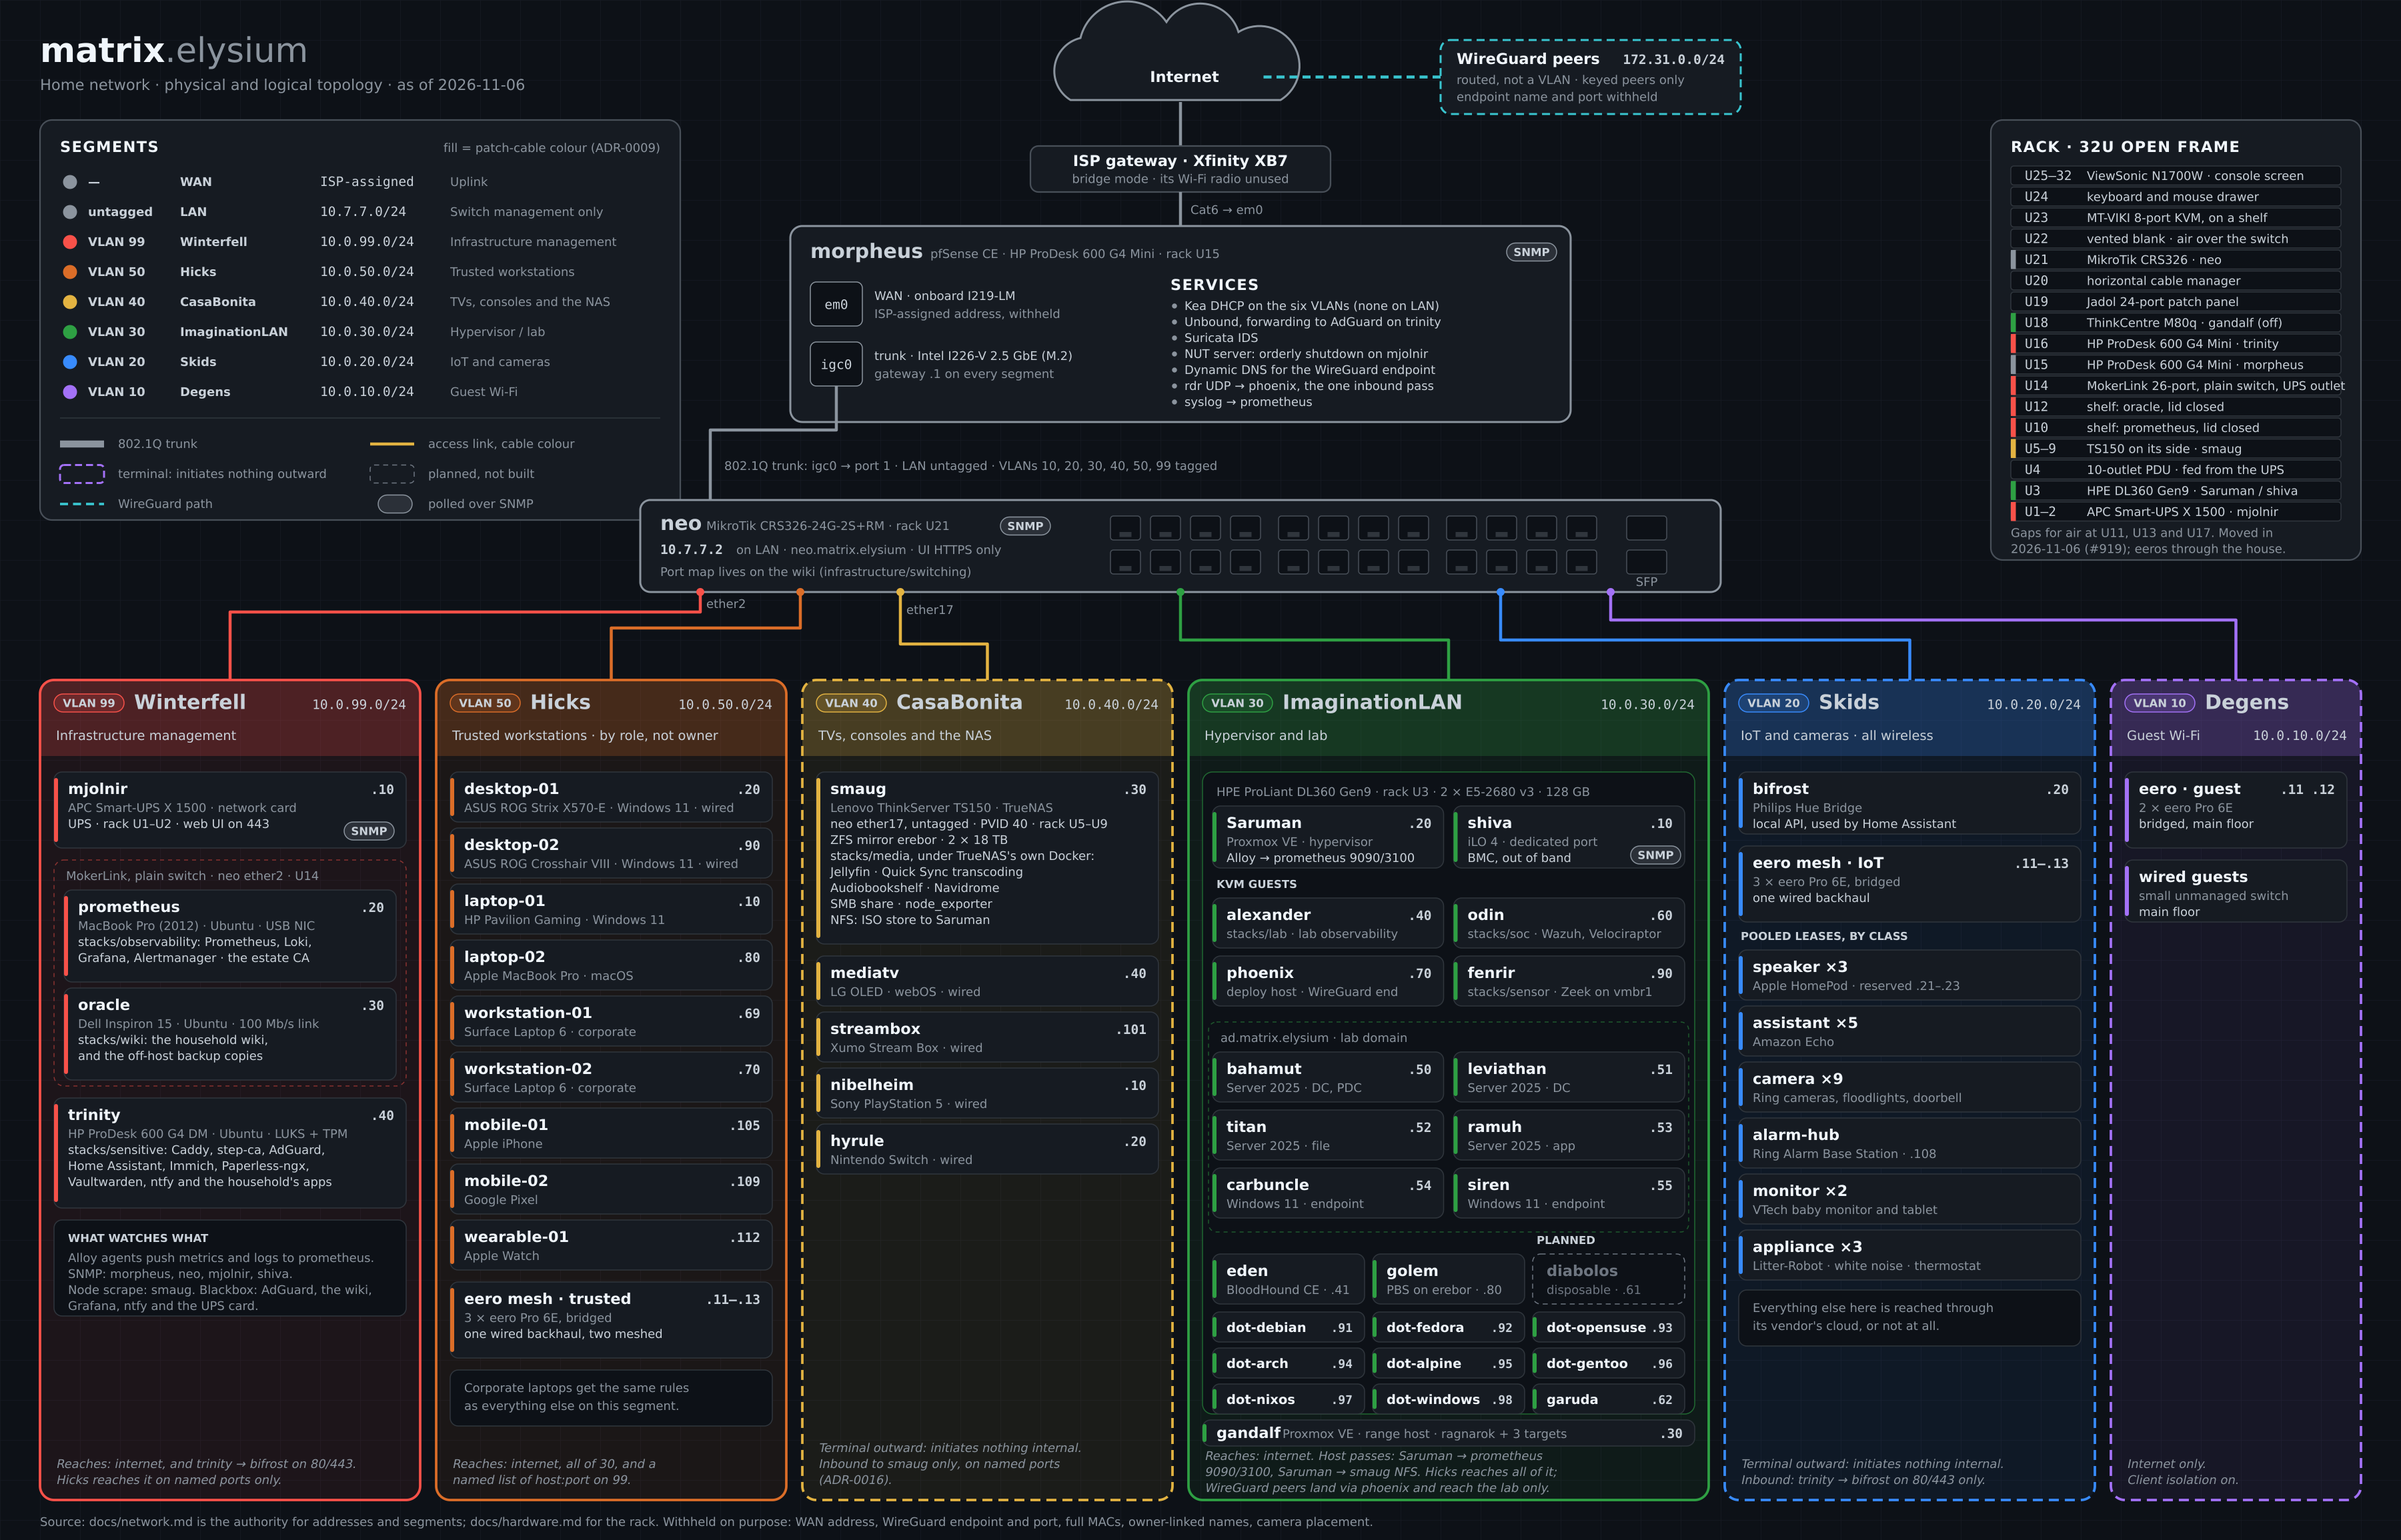
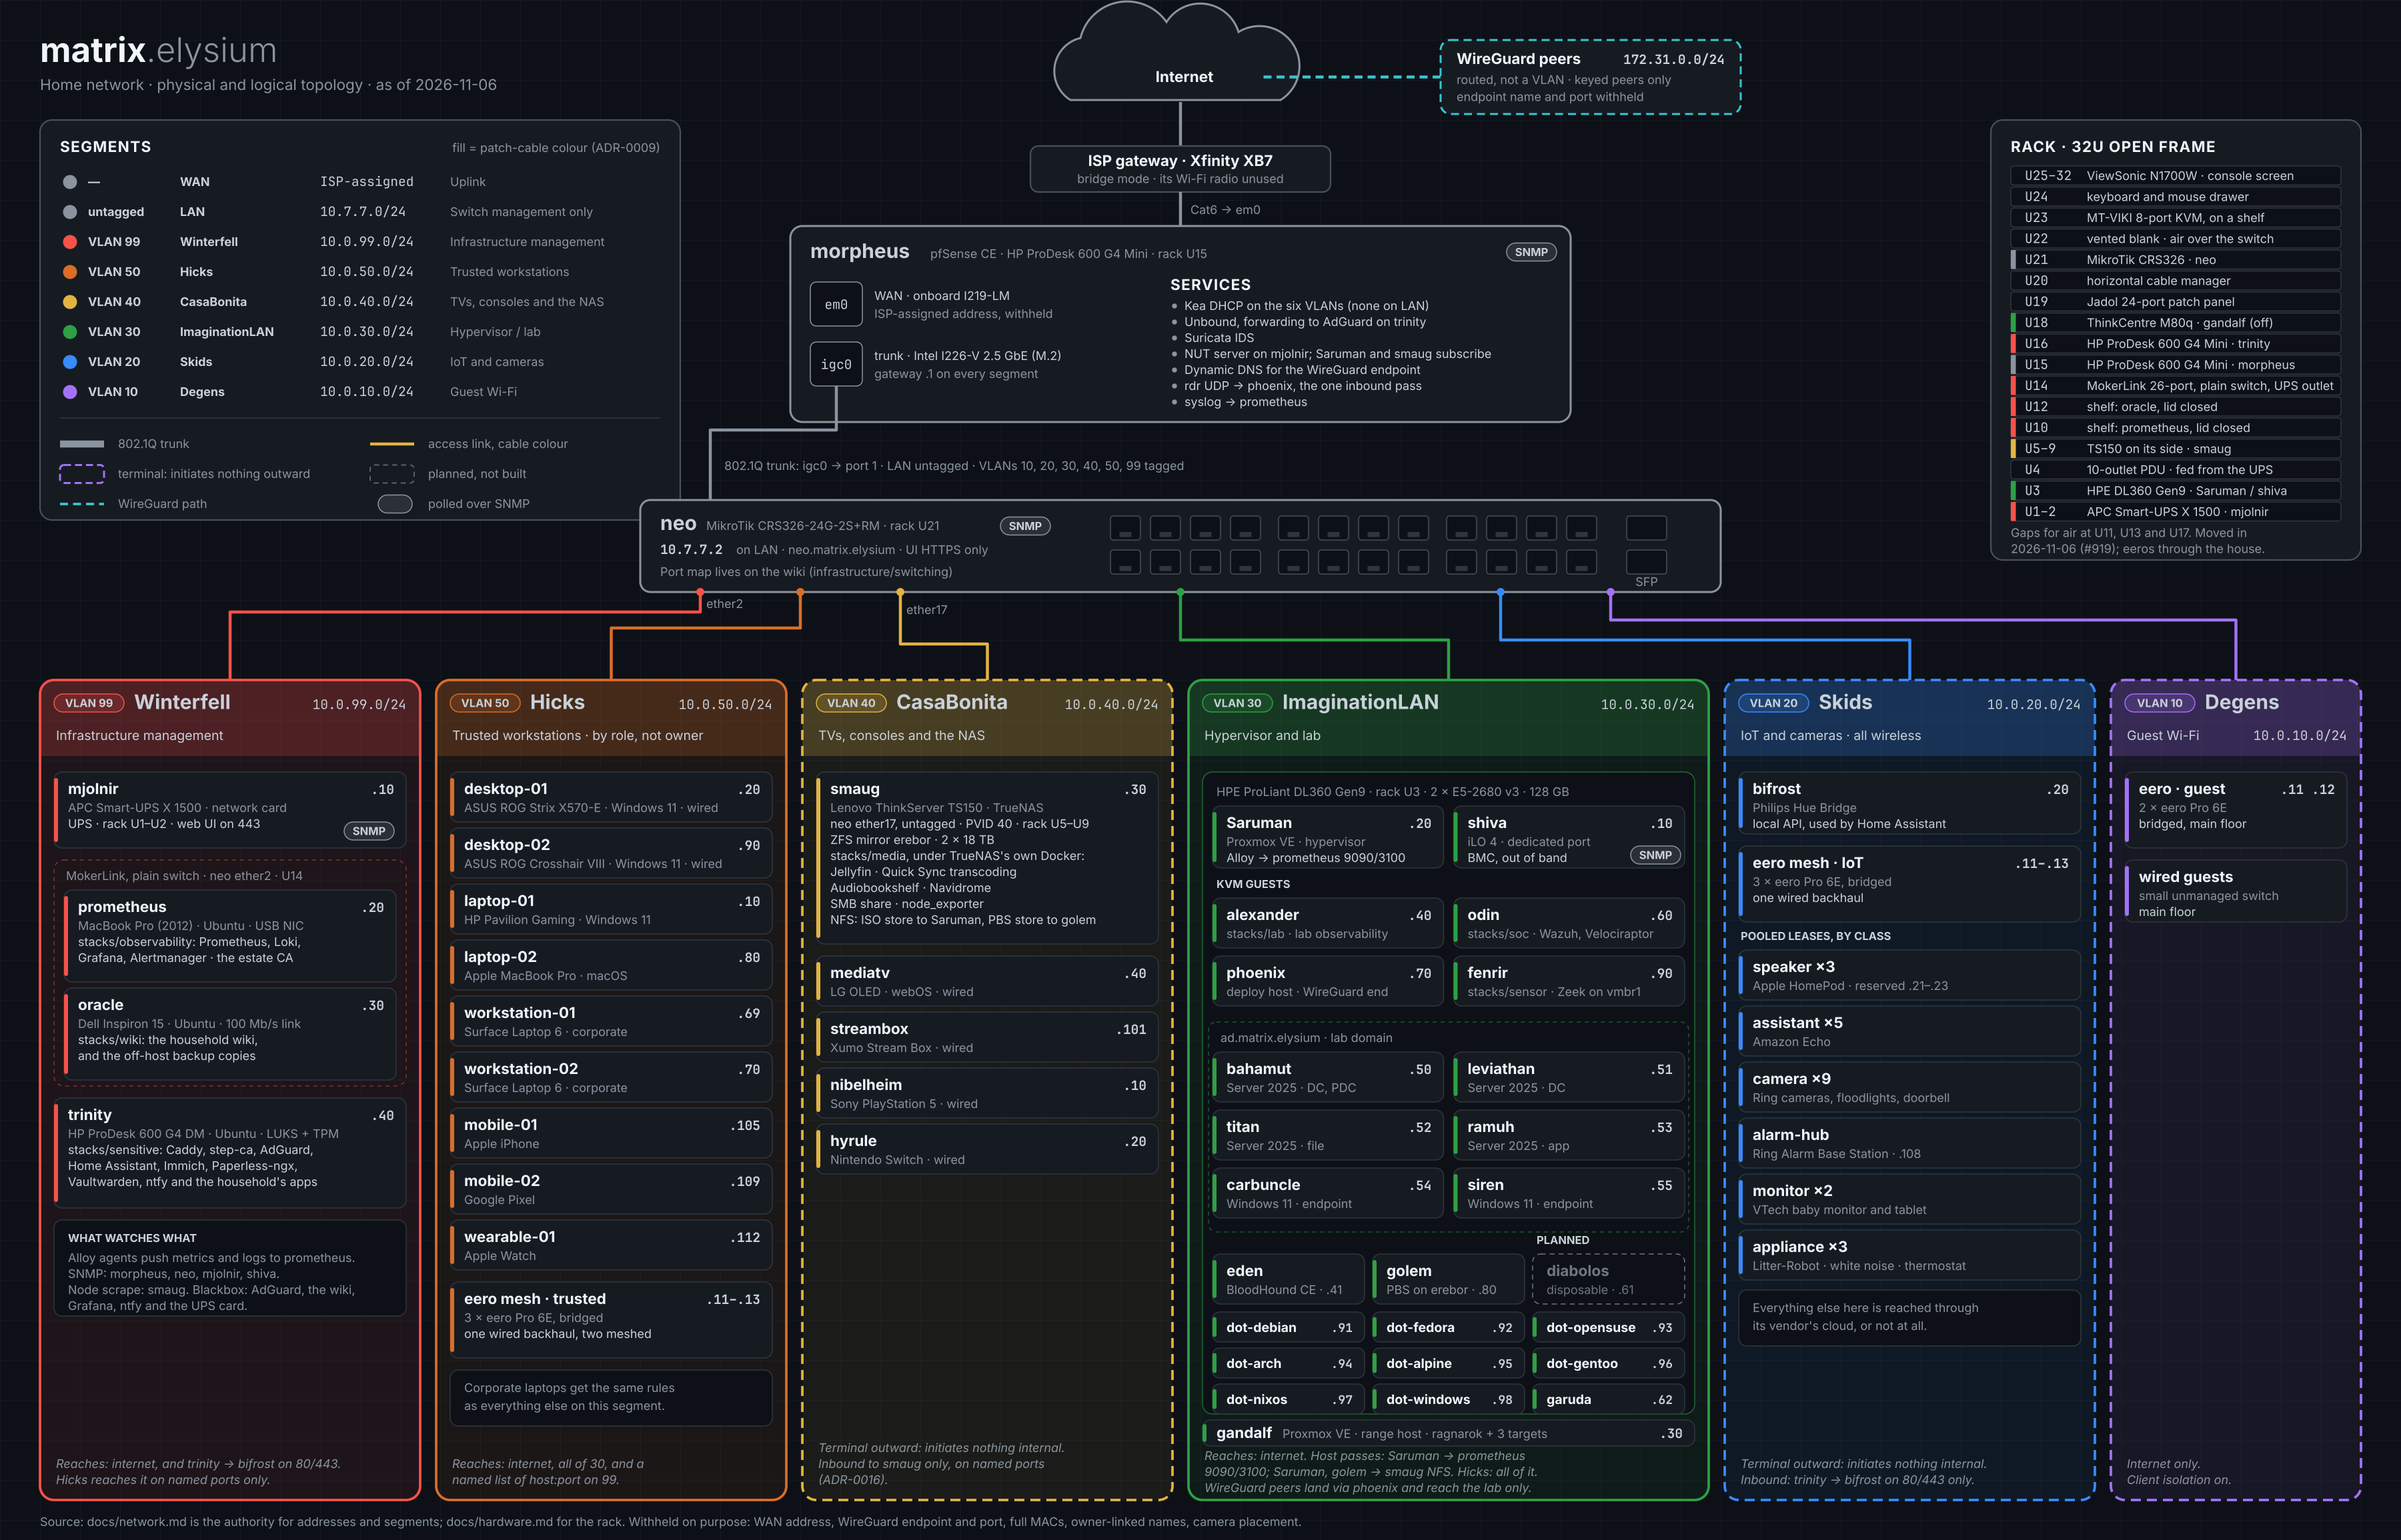
docs(diagram): golem's NFS pass and the NUT subscribers, and check the PNG is re-rendered
network.svg drew Saruman's NFS pass to smaug but not golem's PBS
datastore pass (2026-10-03), and named no NUT subscriber though Saruman
and smaug each have a pass to their gateway's listener. Both are now on
the diagram, and the PNG is re-rendered.

check_docs.py gains a thirteenth assertion: network.png changes whenever
network.svg does, in the working tree and in the last commit that
touched either.

Claude-Session: https://claude.ai/code/session_01L2EweeKAdMf5A1aeFy1anN

diff --git a/scripts/check_docs.py b/scripts/check_docs.py
@@ -17,7 +17,7 @@ check it. This does that for `docs/`, following the pattern
     The device list must live in exactly one place. It is currently spread
     across five ... and --check asserts the other copies still agree.
 
-Twelve assertions, each comparing prose against something machine-readable:
+Thirteen assertions, each comparing prose against something machine-readable:
 
   1. Counted claims        rules, unit-test coverage, dashboards, panels,
                            Alloy agents, ADRs, runbooks, and the size of this
@@ -50,6 +50,9 @@ Twelve assertions, each comparing prose against something machine-readable:
                            resolves to a file in the tree, and its anchor to a
                            heading. The one check that runs over records too: a
                            dead link is a structural fault, not a claim.
+ 13. Diagram render       docs/diagrams/current/network.png changes whenever
+                           network.svg does, in the working tree and in the
+                           last commit that touched either.
 
 Only present-tense documents are checked for their claims — the relative-link
 assertion (12) is the exception, and scans every tracked file including the
@@ -1476,6 +1479,43 @@ def relative_link_problems(rel: str, text: str, root: pathlib.Path) -> list[str]
     return problems
 
 
+def check_diagram_render() -> list[str]:
+    """The PNG is re-rendered whenever the SVG changes.
+
+    network.svg is hand-written and network.png is rendered from it with
+    rsvg-convert (CLAUDE.md). README shows the SVG and the wiki copies the PNG,
+    so an edit that skips the render leaves two diagrams that disagree, and
+    nothing compared them (the 2026-11-11 audit). A byte comparison against a
+    fresh render cannot work, because rsvg-convert versions do not produce
+    identical files, so this checks the pairing instead: an uncommitted change
+    to one without the other, or a last commit that touched one and not the
+    other. In a shallow clone the history half proves nothing and is skipped.
+    """
+    svg = "docs/diagrams/current/network.svg"
+    png = "docs/diagrams/current/network.png"
+    problems = []
+
+    def git(*args: str) -> str:
+        return subprocess.run(["git", *args], cwd=REPO, capture_output=True, text=True, check=False).stdout.rstrip("\n")
+
+    # Not stripped at the left: porcelain's first column is often a space.
+    dirty = {line[3:] for line in git("status", "--porcelain", "--", svg, png).splitlines()}
+    if svg in dirty and png not in dirty:
+        problems.append(f"{svg} is changed and {png} is not; re-render it (CLAUDE.md says how)")
+    if dirty:
+        return problems
+    if git("rev-parse", "--is-shallow-repository") == "true":
+        return problems
+    last_svg = git("log", "-1", "--format=%H", "--", svg)
+    last_png = git("log", "-1", "--format=%H", "--", png)
+    if last_svg != last_png:
+        problems.append(
+            f"the last commit to touch {svg} ({last_svg[:7]}) is not the last to "
+            f"touch {png} ({last_png[:7]}); they are rendered and committed together"
+        )
+    return problems
+
+
 def check_relative_links() -> list[str]:
     """Every relative Markdown link resolves to a file, and its anchor to a heading.
 
@@ -1515,6 +1555,7 @@ def main() -> int:
         ("README's outstanding-purchase count against the roadmap's table", check_buy_list),
         ("critical alerts' runbook_url against docs/runbooks/", check_runbook_urls),
         ("relative Markdown links resolve to a file and an anchor", check_relative_links),
+        ("network.png rendered with network.svg", check_diagram_render),
     )
 
     # The registry is the source for README's "N assertions", so adding a

diff --git a/README.md b/README.md
@@ -111,7 +111,7 @@ documents for different readers.
   `promtool`, `amtool`, `alloy fmt`, a real Loki boot to parse the LogQL rules,
   dashboard-JSON and datasource checks, every dashboard's PromQL parsed, plus
   `gitleaks` over the full history.
-- **CI that validates the documentation too.** Twelve assertions cross-check
+- **CI that validates the documentation too.** Thirteen assertions cross-check
   this prose against the configs it describes — counted claims (rules,
   dashboards, panels, Alloy agents, VLANs, ADRs, runbooks), the SNMP
   inventory and the compute table against `docs/network.md`, the host/stack
@@ -119,7 +119,8 @@ documents for different readers.
   against `docs/firewall-claims.yaml`, guest rows against each other, this
   file's outstanding-purchase count against the roadmap's buy table, every
   critical alert's `runbook_url` against the runbook and heading it names,
-  every relative Markdown link against the file and heading it points at, and
+  every relative Markdown link against the file and heading it points at, the
+  network diagram's PNG against its SVG, and
   a ban on image versions in prose — Dependabot edits only `compose.yaml`, so
   a version written anywhere else is stale from the next bump. A document
   that disagrees with the repository fails the build. That opening count is
